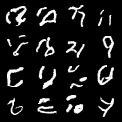
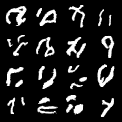
Result v3, not much diff

diff --git a/source_code_updated_v3.py b/source_code_updated_v3.py
@@ -1,0 +1,385 @@
+# -*- coding: utf-8 -*-
+"""
+Minimal DDPM on MNIST (improved v3):
+✅ x0 clamp during sampling (stability / fewer artifacts)
+✅ EMA weights for cleaner samples (standard diffusion trick)
+✅ Improved DDIM sampling (clean timestep schedule + more stable update)
+✅ Saves ablation grids into an output folder
+
+Run:
+  python source_code_updated_v3.py
+"""
+
+import math
+import copy
+import os
+import torch
+import torch.nn as nn
+import torch.nn.functional as F
+import torchvision
+from torchvision import transforms
+from torchvision.datasets import MNIST
+from torch.utils.data import DataLoader
+import matplotlib.pyplot as plt
+
+
+# ---------------------------
+# Schedules + utilities
+# ---------------------------
+def linear_beta_schedule(T, beta_start=1e-4, beta_end=2e-2):
+    return torch.linspace(beta_start, beta_end, T)
+
+def extract(a, t, x_shape):
+    """
+    a: (T,) tensor
+    t: (B,) int64 tensor
+    returns (B,1,1,1) broadcastable to x_shape
+    """
+    B = t.shape[0]
+    out = a.gather(0, t)  # (B,)
+    return out.view(B, *([1] * (len(x_shape) - 1)))
+
+def make_schedules(T, device):
+    betas = linear_beta_schedule(T).to(device)               # (T,)
+    alphas = 1.0 - betas                                     # (T,)
+    alphas_cumprod = torch.cumprod(alphas, dim=0)            # (T,)
+    alphas_cumprod_prev = F.pad(alphas_cumprod[:-1], (1, 0), value=1.0)
+
+    sqrt_alphas_cumprod = torch.sqrt(alphas_cumprod)
+    sqrt_one_minus_alphas_cumprod = torch.sqrt(1.0 - alphas_cumprod)
+
+    # DDPM posterior variance: beta_t * (1 - abar_{t-1}) / (1 - abar_t)
+    posterior_variance = betas * (1.0 - alphas_cumprod_prev) / (1.0 - alphas_cumprod)
+
+    return {
+        "betas": betas,
+        "alphas": alphas,
+        "alphas_cumprod": alphas_cumprod,
+        "alphas_cumprod_prev": alphas_cumprod_prev,
+        "sqrt_alphas_cumprod": sqrt_alphas_cumprod,
+        "sqrt_one_minus_alphas_cumprod": sqrt_one_minus_alphas_cumprod,
+        "posterior_variance": posterior_variance,
+    }
+
+
+def q_sample(x0, t, schedules, noise=None):
+    """
+    Forward diffusion: x_t = sqrt(abar_t)*x0 + sqrt(1-abar_t)*eps
+    """
+    if noise is None:
+        noise = torch.randn_like(x0)
+    sqrt_ab = extract(schedules["sqrt_alphas_cumprod"], t, x0.shape)
+    sqrt_1mab = extract(schedules["sqrt_one_minus_alphas_cumprod"], t, x0.shape)
+    xt = sqrt_ab * x0 + sqrt_1mab * noise
+    return xt, noise
+
+
+# ---------------------------
+# Time embedding + model
+# ---------------------------
+class SinusoidalPosEmb(nn.Module):
+    """Standard sinusoidal embedding for timesteps."""
+    def __init__(self, dim):
+        super().__init__()
+        self.dim = dim
+
+    def forward(self, t):
+        half = self.dim // 2
+        device = t.device
+        t = t.float()
+        freqs = torch.exp(torch.linspace(0, math.log(10000), half, device=device))
+        freqs = 1.0 / freqs
+        args = t[:, None] * freqs[None, :]
+        return torch.cat([torch.sin(args), torch.cos(args)], dim=-1)
+
+class Block(nn.Module):
+    def __init__(self, in_ch, out_ch):
+        super().__init__()
+        self.conv = nn.Conv2d(in_ch, out_ch, 3, padding=1)
+        self.gn = nn.GroupNorm(8, out_ch)
+        self.act = nn.SiLU()
+
+    def forward(self, x):
+        return self.act(self.gn(self.conv(x)))
+
+class TimeConditionedCNN(nn.Module):
+    """
+    Deeper + wider CNN with timestep conditioning.
+    Predicts eps_theta(x_t, t).
+    """
+    def __init__(self, in_ch=1, base_ch=128, time_dim=256):
+        super().__init__()
+        self.time_mlp = nn.Sequential(
+            SinusoidalPosEmb(time_dim),
+            nn.Linear(time_dim, time_dim),
+            nn.SiLU(),
+            nn.Linear(time_dim, base_ch),
+        )
+
+        self.b1 = Block(in_ch, base_ch)
+        self.b2 = Block(base_ch, base_ch)
+        self.b3 = Block(base_ch, base_ch)
+        self.b4 = Block(base_ch, base_ch)
+        self.b5 = Block(base_ch, base_ch)
+        self.out = nn.Conv2d(base_ch, in_ch, 3, padding=1)
+
+    def forward(self, x, t):
+        h = self.b1(x)
+        temb = self.time_mlp(t)[:, :, None, None]  # (B, base_ch, 1, 1)
+        h = h + temb
+        h = self.b2(h)
+        h = self.b3(h)
+        h = self.b4(h)
+        h = self.b5(h)
+        return self.out(h)
+
+
+# ---------------------------
+# EMA helper
+# ---------------------------
+@torch.no_grad()
+def update_ema(ema_model, model, decay=0.995):
+    """
+    EMA update:
+      ema = decay * ema + (1-decay) * model
+    Tip: 0.995 often works better than 0.999 for shorter trainings.
+    """
+    for ema_p, p in zip(ema_model.parameters(), model.parameters()):
+        ema_p.data.mul_(decay).add_(p.data, alpha=1.0 - decay)
+
+
+# ---------------------------
+# Sampling (DDPM with x0 clamp)
+# ---------------------------
+@torch.no_grad()
+def p_sample_ddpm(model, x_t, t, schedules, clamp_x0=True):
+    betas_t = extract(schedules["betas"], t, x_t.shape)
+    alphas_t = extract(schedules["alphas"], t, x_t.shape)
+    abar_t = extract(schedules["alphas_cumprod"], t, x_t.shape)
+    abar_prev = extract(schedules["alphas_cumprod_prev"], t, x_t.shape)
+
+    eps_pred = model(x_t, t)
+
+    # x0_hat = (x_t - sqrt(1-abar_t)*eps) / sqrt(abar_t)
+    x0_hat = (x_t - torch.sqrt(1.0 - abar_t) * eps_pred) / torch.sqrt(abar_t)
+    if clamp_x0:
+        x0_hat = x0_hat.clamp(-1.0, 1.0)
+
+    # posterior mean: coef1*x0_hat + coef2*x_t
+    coef1 = betas_t * torch.sqrt(abar_prev) / (1.0 - abar_t)
+    coef2 = (1.0 - abar_prev) * torch.sqrt(alphas_t) / (1.0 - abar_t)
+    model_mean = coef1 * x0_hat + coef2 * x_t
+
+    posterior_var_t = extract(schedules["posterior_variance"], t, x_t.shape)
+
+    noise = torch.randn_like(x_t)
+    nonzero_mask = (t != 0).float().view(x_t.shape[0], *([1] * (len(x_t.shape) - 1)))
+    x_prev = model_mean + nonzero_mask * torch.sqrt(posterior_var_t) * noise
+    return x_prev
+
+@torch.no_grad()
+def sample_ddpm(model, schedules, T, image_size=28, num_samples=16, device="cpu", clamp_x0=True):
+    model.eval()
+    x = torch.randn((num_samples, 1, image_size, image_size), device=device)  # x_T
+    for step in reversed(range(T)):
+        t = torch.full((num_samples,), step, device=device, dtype=torch.long)
+        x = p_sample_ddpm(model, x, t, schedules, clamp_x0=clamp_x0)
+    return x
+
+
+# ---------------------------
+# DDIM sampling (improved)
+# ---------------------------
+@torch.no_grad()
+def sample_ddim(model, schedules, T, steps=200, eta=0.0, image_size=28, num_samples=16,
+                device="cpu", clamp_x0=True):
+    """
+    DDIM sampling with a clean integer timestep schedule.
+      - steps: number of sampling steps (try 50, 100, 200)
+      - eta: 0.0 deterministic; >0 adds noise
+    """
+    model.eval()
+    x = torch.randn((num_samples, 1, image_size, image_size), device=device)
+
+    # Evenly spaced integer timesteps, then run in reverse.
+    step_size = max(T // steps, 1)
+    timesteps = list(range(0, T, step_size))
+    timesteps[-1] = T - 1  # ensure last is exactly T-1
+
+    for i in reversed(range(len(timesteps))):
+        t_val = timesteps[i]
+        t = torch.full((num_samples,), t_val, device=device, dtype=torch.long)
+
+        abar_t = extract(schedules["alphas_cumprod"], t, x.shape)
+        eps = model(x, t)
+
+        # predict x0
+        x0_hat = (x - torch.sqrt(1.0 - abar_t) * eps) / torch.sqrt(abar_t)
+        if clamp_x0:
+            x0_hat = x0_hat.clamp(-1.0, 1.0)
+
+        if i == 0:
+            x = x0_hat
+            break
+
+        t_prev_val = timesteps[i - 1]
+        t_prev = torch.full((num_samples,), t_prev_val, device=device, dtype=torch.long)
+        abar_prev = extract(schedules["alphas_cumprod"], t_prev, x.shape)
+
+        # sigma controls stochasticity; eta=0 => deterministic
+        sigma = eta * torch.sqrt((1.0 - abar_prev) / (1.0 - abar_t)) * torch.sqrt(1.0 - abar_t / abar_prev)
+        sigma2 = sigma * sigma
+
+        # Avoid tiny negative due to float error
+        coeff = torch.sqrt(torch.clamp(1.0 - abar_prev - sigma2, min=0.0))
+        eps_dir = coeff * eps
+
+        noise = torch.randn_like(x)
+        x = torch.sqrt(abar_prev) * x0_hat + eps_dir + sigma * noise
+
+    return x
+
+
+# ---------------------------
+# Data + training
+# ---------------------------
+def to_minus1_plus1(x):
+    return x * 2 - 1
+
+def get_data(batch_size=128):
+    transform = transforms.Compose([
+        transforms.ToTensor(),
+        transforms.Lambda(to_minus1_plus1),
+    ])
+    dataset = MNIST(root="./data", train=True, download=True, transform=transform)
+    use_cuda = torch.cuda.is_available()
+    return DataLoader(
+        dataset,
+        batch_size=batch_size,
+        shuffle=True,
+        num_workers=0,          # Windows-safe
+        pin_memory=use_cuda
+    )
+
+def train(model, ema_model, dataloader, schedules, optimizer, T,
+          epochs=120, log_every=200, device="cpu", ema_decay=0.995):
+    model.train()
+    for epoch in range(epochs):
+        running = 0.0
+        for step, (x0, _) in enumerate(dataloader):
+            x0 = x0.to(device)
+
+            t = torch.randint(0, T, (x0.shape[0],), device=device, dtype=torch.long)
+            x_t, noise = q_sample(x0, t, schedules)
+
+            noise_pred = model(x_t, t)
+            loss = F.mse_loss(noise_pred, noise)
+
+            optimizer.zero_grad(set_to_none=True)
+            loss.backward()
+            optimizer.step()
+
+            update_ema(ema_model, model, decay=ema_decay)
+
+            running += loss.item()
+            if (step + 1) % log_every == 0:
+                print(f"Epoch {epoch} Step {step+1}: loss={running/log_every:.4f}")
+                running = 0.0
+
+        print(f"Epoch {epoch}: last_batch_loss={loss.item():.4f}")
+
+
+# ---------------------------
+# Visualization + saving
+# ---------------------------
+def show_samples(samples, nrow=4, title="Samples", save_dir="output", filename=None, show=True):
+    os.makedirs(save_dir, exist_ok=True)
+
+    samples = samples.clamp(-1, 1)
+    samples = (samples + 1) / 2  # to [0, 1]
+
+    grid = torchvision.utils.make_grid(samples.cpu(), nrow=nrow)
+
+    if filename is None:
+        safe = "".join(c if c.isalnum() or c in "._- " else "_" for c in title).strip()
+        filename = safe.replace(" ", "_") + ".png"
+
+    save_path = os.path.join(save_dir, filename)
+    torchvision.utils.save_image(grid, save_path)
+
+    if show:
+        plt.figure(figsize=(4, 4))
+        plt.title(title)
+        plt.imshow(grid.permute(1, 2, 0))
+        plt.axis("off")
+        plt.show()
+
+    print("Saved:", save_path)
+
+
+# ---------------------------
+# Main
+# ---------------------------
+def main():
+    device = "cuda" if torch.cuda.is_available() else "cpu"
+    print("Device:", device)
+    if device == "cuda":
+        print("GPU:", torch.cuda.get_device_name(0))
+        torch.backends.cudnn.benchmark = True
+
+    # Training hyperparams (same as your v2 runs)
+    T = 1000
+    epochs = 120
+    batch_size = 128
+    lr = 2e-4
+
+    # Save into a project-local ./output folder by default
+    save_dir = os.path.join(os.path.dirname(__file__), "output")
+
+    schedules = make_schedules(T, device)
+    model = TimeConditionedCNN(base_ch=128, time_dim=256).to(device)
+
+    # EMA model for sampling
+    ema_model = copy.deepcopy(model).to(device)
+    ema_model.eval()
+    for p in ema_model.parameters():
+        p.requires_grad_(False)
+
+    dataloader = get_data(batch_size=batch_size)
+    optimizer = torch.optim.AdamW(model.parameters(), lr=lr)
+
+    train(model, ema_model, dataloader, schedules, optimizer, T,
+          epochs=epochs, device=device, ema_decay=0.995)
+
+    # ---- Ablation: clamp vs EMA vs DDIM ----
+    def set_seed(seed=0):
+        torch.manual_seed(seed)
+        if device == "cuda":
+            torch.cuda.manual_seed_all(seed)
+
+    set_seed(0)
+    s1 = sample_ddpm(model, schedules, T, num_samples=16, device=device, clamp_x0=False)
+    show_samples(s1, title="DDPM_model_no_clamp", save_dir=save_dir, filename="01_ddpm_model_no_clamp.png", show=False)
+
+    set_seed(0)
+    s2 = sample_ddpm(model, schedules, T, num_samples=16, device=device, clamp_x0=True)
+    show_samples(s2, title="DDPM_model_x0_clamp", save_dir=save_dir, filename="02_ddpm_model_x0_clamp.png", show=False)
+
+    set_seed(0)
+    s3 = sample_ddpm(ema_model, schedules, T, num_samples=16, device=device, clamp_x0=True)
+    show_samples(s3, title="DDPM_ema_x0_clamp", save_dir=save_dir, filename="03_ddpm_ema_x0_clamp.png", show=False)
+
+    ddim_steps = 200
+    ddim_eta = 0.0
+
+    set_seed(0)
+    s4 = sample_ddim(ema_model, schedules, T, steps=ddim_steps, eta=ddim_eta,
+                     num_samples=16, device=device, clamp_x0=True)
+    show_samples(s4, title=f"DDIM_ema_{ddim_steps}steps_eta{ddim_eta}", save_dir=save_dir,
+                 filename="04_ddim_ema_200steps.png", show=False)
+
+    print("Done. Saved all grids to:", save_dir)
+
+
+if __name__ == "__main__":
+    main()
